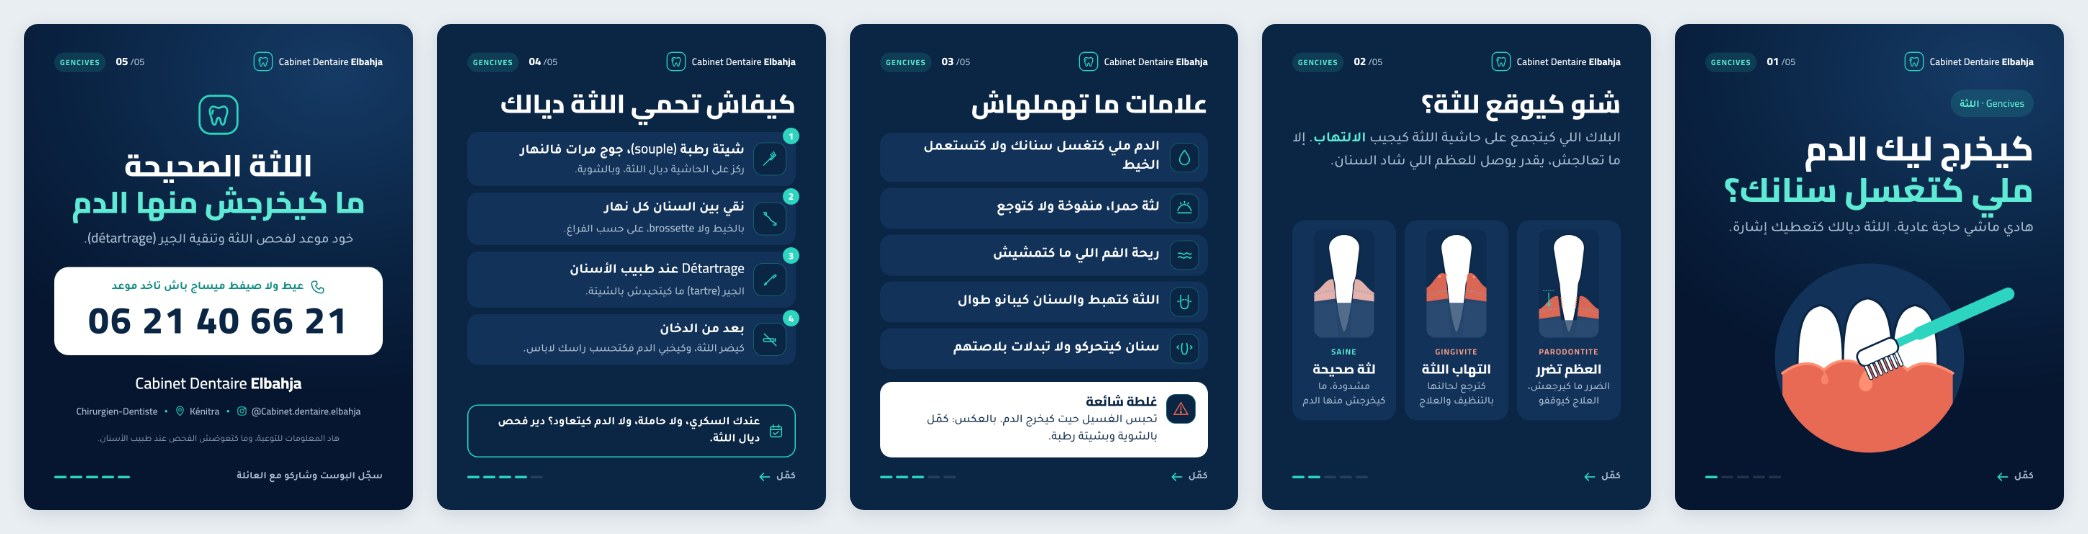
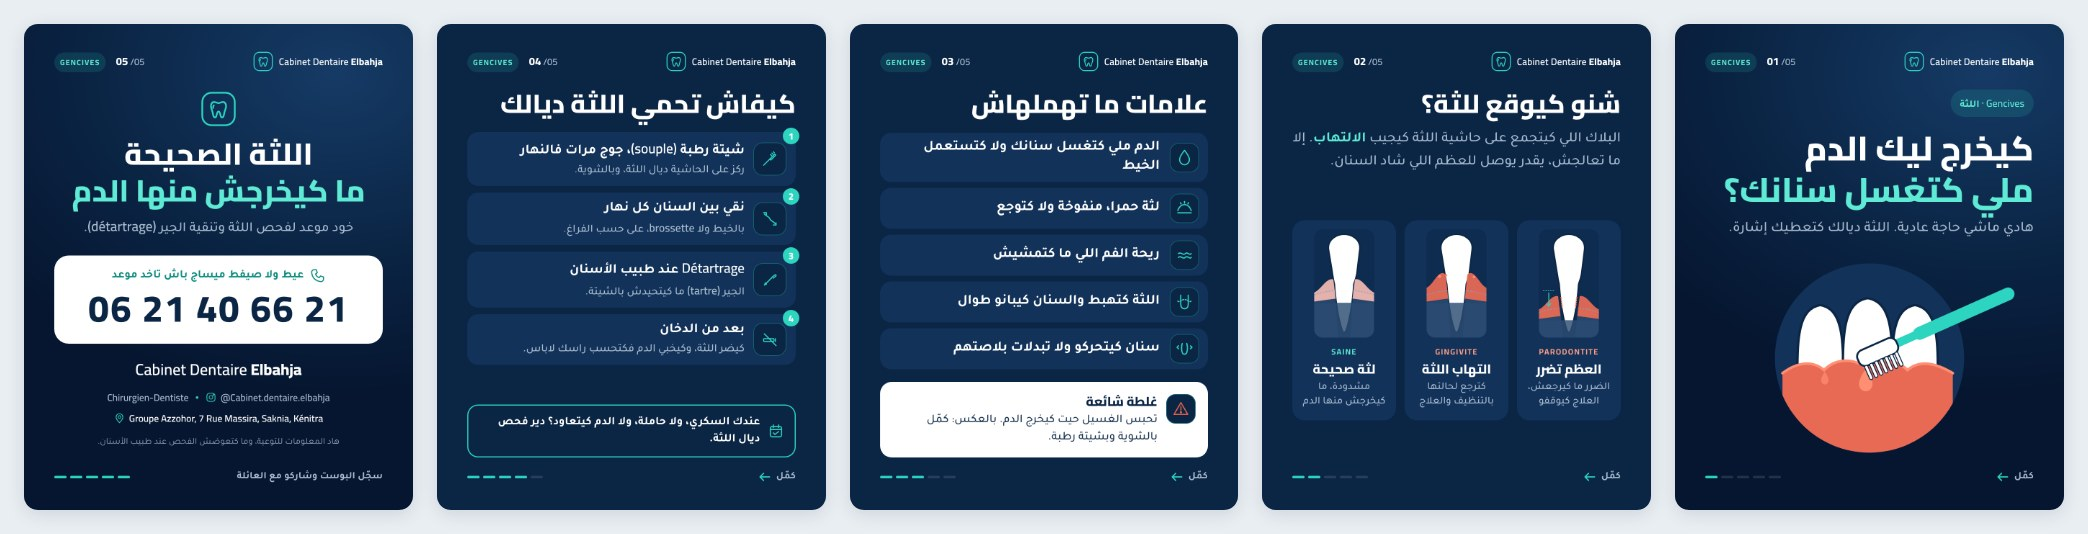
Add the practice address and in-house panoramic X-ray
Claude-Session: https://claude.ai/code/session_019emWRaxJxmTDAcuXxMsAYu

Changed region(s): [[0.0, 0.1498, 0.1868, 0.839]]

diff --git a/carousels/README.md b/carousels/README.md
@@ -11,7 +11,7 @@
 | 3 | Wisdom teeth · ضرسة العقل | **Blueprint**: light grid paper, technical line drawings, FDI tooth numbers (38 / 48) | [`export/03-dents-de-sagesse/`](export/03-dents-de-sagesse/) |
 | 4 | Sensitivity · حساسية السنان | **Thermal**: turquoise "ice" gradient cover, frosty top band on the inside slides | [`export/04-sensibilite/`](export/04-sensibilite/) |
 
-**What every post shares:** the same header (tooth logo + *Cabinet Dentaire Elbahja* + slide counter), the same type system (Cairo ExtraBold for titles, Tajawal for body text), one grid with 84 px margins, rounded 30 px cards, the same footer (progress bar + «كمّل ←») and the same call-to-action slide (phone number in a large block, *Chirurgien-Dentiste · Kénitra · @Cabinet.dentaire.elbahja*, short disclaimer).
+**What every post shares:** the same header (tooth logo + *Cabinet Dentaire Elbahja* + slide counter), the same type system (Cairo ExtraBold for titles, Tajawal for body text), one grid with 84 px margins, rounded 30 px cards, the same footer (progress bar + «كمّل ←») and the same call-to-action slide (phone number in a large block, *Chirurgien-Dentiste · @Cabinet.dentaire.elbahja*, the full address, short disclaimer).
 
 **Why these 4 topics:** they are among the most common reasons patients ask a dentist questions, and each one targets a different audience. Caries is for parents and families, with the sugary *atay* habit as the hook. Gums are for adults who think a little bleeding is normal. Wisdom teeth are for young adults aged 17 to 25. Sensitivity is for everyone, and it also gets people to come in for a check-up.
 
@@ -57,7 +57,8 @@ In the text, `[[mot]]` keeps a French word left-to-right, and `**mot**` puts a w
 >
 > Une carie débutante ne fait pas mal : un contrôle régulier permet de la traiter tôt et simplement.
 >
-> 📞 06 21 40 66 21 · 📍 Kénitra
+> 📞 06 21 40 66 21
+> 📍 Groupe Azzohor, 7 Rue Massira, Saknia, Kénitra
 > Cabinet Dentaire Elbahja · Chirurgien-Dentiste
 >
 > ℹ هاد المعلومات للتوعية، وما كتعوضش الفحص عند طبيب الأسنان.
@@ -96,7 +97,8 @@ In the text, `[[mot]]` keeps a French word left-to-right, and `**mot**` puts a w
 >
 > Saignement des gencives = signal d'alerte. Un bilan parodontal permet d'agir tôt.
 >
-> 📞 06 21 40 66 21 · 📍 Kénitra
+> 📞 06 21 40 66 21
+> 📍 Groupe Azzohor, 7 Rue Massira, Saknia, Kénitra
 > Cabinet Dentaire Elbahja · Chirurgien-Dentiste
 >
 > ℹ هاد المعلومات للتوعية، وما كتعوضش الفحص عند طبيب الأسنان.
@@ -111,7 +113,7 @@ In the text, `[[mot]]` keeps a French word left-to-right, and `**mot**` puts a w
 
 ## Post 3 · ضرسة العقل (Wisdom teeth)
 
-**Marketing objective:** reassure young adults (no automatic extraction) and position the practice as the place to assess the case (exam plus X-ray). Target: 17 to 30 year olds, students, and parents of teenagers.
+**Marketing objective:** reassure young adults (no automatic extraction) and position the practice as the place to assess the case (exam plus panoramic X-ray, done at the practice). Target: 17 to 30 year olds, students, and parents of teenagers.
 
 | # | Slide text (Darija) | Visual description |
 | --- | --- | --- |
@@ -119,25 +121,26 @@ In the text, `[[mot]]` keeps a French word left-to-right, and `**mot**` puts a w
 | 2 | **علاش كتعمل المشاكل؟**<br>هي آخر ضرسة كتطلع، غالبا بين **17 و 25 عام**. ملي ما كتلقاش البلاصة، كتبقى معوجة ولا مدفونة فالعظم (incluse).<br>*Normale*: طالعة مزيان · *Mésio-angulée*: معوجة · *Incluse*: مدفونة فالعظم<br>✓ ماشي كاع ضروس العقل خاصهم يتقلعو. | 3 "technical drawing" panels with dashed borders: the 47 and 48 teeth with the bone line. 48 is first upright, then tilted towards 47, then lying flat inside the bone. |
 | 3 | **علامات كتحتاج فحص**<br>• وجع فاللور ديال الفك<br>• اللثة فوق الضرسة منفوخة ولا كتوجع<br>• صعوبة فحلان الفم ولا فالمضغ<br>• مذاق خايب ولا ريحة من اللور<br>⚠ **نفخة فالوجه، سخانة ولا صعوبة فالبلع؟** سير لطبيب الأسنان بلا تعطال. وما تاخدش antibiotiques بلا وصفة. | White rows with thin borders over the grid. The alert card has a coral border. A short turquoise rule under the title, in the blueprint style. |
 | 4 | **إمتى كتقلع؟**<br>الطبيب كيقرر من بعد الفحص والراديو (panoramique)، إلا كان:<br>1. التهاب كيتعاود فاللثة اللي داير بيها<br>2. تسوس فيها ما كيتعالجش، ولا فالضرسة اللي حداها<br>3. كتضغط على الضرسة اللي حداها وكتضرها<br>4. كيس (kyste) ولا مشكل فالعظم<br>📅 إلا ما كان حتى مشكل، ممكن تبقى غير تحت المراقبة. | 4 numbered cards (icons: infection, tooth, neighbouring tooth, cyst). A turquoise box: "monitoring is also an option". |
-| 5 | **كتحس بشي حاجة / فاللور ديال الفك؟**<br>دير فحص، والطبيب يقول ليك واش خاصها تتقلع ولا لا.<br>[CTA block] | Common CTA on the grid paper. |
+| 5 | **كتحس بشي حاجة / فاللور ديال الفك؟**<br>الفحص والراديو (panoramique) كاينين فالعيادة. الطبيب يقول ليك واش خاصها تتقلع ولا لا.<br>[CTA block] | Common CTA on the grid paper. |
 
 **Caption**
 
 > ضرسة العقل: نقلعوها ولا لا؟ 🤔
 > الجواب ماشي ديما "قلعها". كاين اللي طالعة مزيان وما دايراش حتى مشكل، وكاين اللي معوجة ولا مدفونة وكتسبب التهاب ولا كتضر الضرسة اللي حداها.
 >
-> 🔎 القرار كيكون من بعد الفحص والراديو.
+> 🔎 القرار كيكون من بعد الفحص والراديو panoramique، وهو كاين فالعيادة.
 > ⚠ نفخة فالوجه، سخانة، ولا صعوبة فالبلع ولا فحلان الفم: سير للطبيب بلا تعطال.
 > ❌ ما تاخدش antibiotiques بلا وصفة، وما تحطش الأسبرين على اللثة.
 >
 > Dents de sagesse : l'extraction n'est pas systématique. Seul un examen clinique et radiologique permet de décider.
 >
-> 📞 06 21 40 66 21 · 📍 Kénitra
+> 📞 06 21 40 66 21
+> 📍 Groupe Azzohor, 7 Rue Massira, Saknia, Kénitra
 > Cabinet Dentaire Elbahja · Chirurgien-Dentiste
 >
 > ℹ هاد المعلومات للتوعية، وما كتعوضش الفحص عند طبيب الأسنان.
 
-**Short CTA:** وجع فاللور ولا اللثة منفوخة؟ عيط على 06 21 40 66 21 باش تدير فحص لضرسة العقل.
+**Short CTA:** وجع فاللور ولا اللثة منفوخة؟ عيط على 06 21 40 66 21 باش تدير فحص وراديو panoramique لضرسة العقل.
 
 **Hashtags:** `#ضرسة_العقل #ضرس_العقل #طبيب_الأسنان #القنيطرة #Kenitra #DentDeSagesse #DentsDeSagesse #DentisteKenitra #ChirurgieDentaire #DentisteMaroc #SanteBuccoDentaire #Maroc #CabinetDentaireElbahja`
 
@@ -170,7 +173,8 @@ In the text, `[[mot]]` keeps a French word left-to-right, and `**mot**` puts a w
 >
 > Sensibilité dentaire : un dentifrice adapté peut soulager, mais seul un examen permet d'en trouver la cause.
 >
-> 📞 06 21 40 66 21 · 📍 Kénitra
+> 📞 06 21 40 66 21
+> 📍 Groupe Azzohor, 7 Rue Massira, Saknia, Kénitra
 > Cabinet Dentaire Elbahja · Chirurgien-Dentiste
 >
 > ℹ هاد المعلومات للتوعية، وما كتعوضش الفحص عند طبيب الأسنان.
@@ -188,7 +192,7 @@ In the text, `[[mot]]` keeps a French word left-to-right, and `**mot**` puts a w
 - Logo: rounded square with a turquoise tooth outline.
 - Title in 2 lines, specific to the post (second line in turquoise).
 - Phone block, full width: «عيط ولا صيفط ميساج باش تاخد موعد» above **06 21 40 66 21** in large type (Cairo ExtraBold, 104 px, easy to read on a phone).
-- **Cabinet Dentaire Elbahja**, then *Chirurgien-Dentiste · 📍 Kénitra · @Cabinet.dentaire.elbahja*.
+- **Cabinet Dentaire Elbahja**, then *Chirurgien-Dentiste · @Cabinet.dentaire.elbahja*, then 📍 *Groupe Azzohor, 7 Rue Massira, Saknia, Kénitra*.
 - Disclaimer: «هاد المعلومات للتوعية، وما كتعوضش الفحص عند طبيب الأسنان.»
 - Footer: «سجّل البوست وشاركو مع العائلة» (save and share are the 2 signals Instagram values most).
 
@@ -229,4 +233,4 @@ Use these as an art-direction base. **Always add the Arabic text in Canva or Fig
 - No promised results: sensitivity toothpaste "needs a few weeks", and the decision to extract is made "after the exam and the X-ray".
 - No self-diagnosis: every post sends people to an exam, and red flags (swelling, fever, spontaneous night pain) mean "see the dentist without delay".
 - Evidence-based advice: fluoride toothpaste twice a day, *spit, don't rinse*, sugar frequency matters, interdental cleaning, keep brushing gums that bleed, smoking hides gum bleeding, wait before brushing after acidic food or drink.
-- The practice must check before posting: whether the panoramic X-ray is taken at the practice or prescribed elsewhere (post 3 does not say), and the full street address if you want to add it to the CTA.
+- Confirmed by the practice: the Instagram handle, the panoramic X-ray done at the practice, and the address (Groupe Azzohor, 7 Rue Massira, Saknia, Kénitra).
